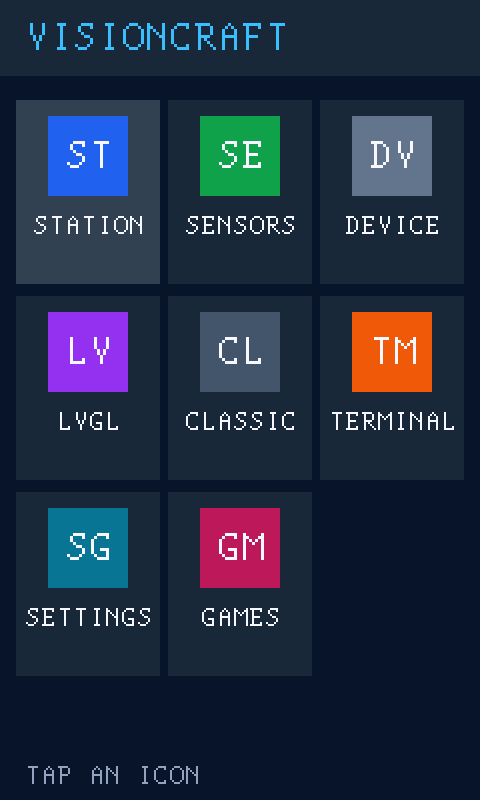
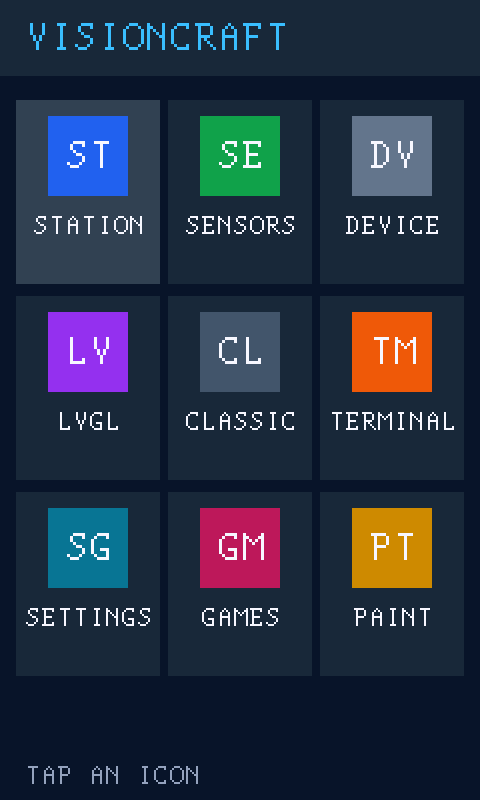
firmware: paint page with a 576 KB canvas in external SRAM; docs(handbook): 画板
Strokes go to the panel and to a canvas in external SRAM, so the
drawing survives page changes (blitted back on enter, 64.8 ms).
Consecutive touch samples are joined with Bresenham lines; on the
board the user's fast strokes had samples up to 42 px apart.

Changed region(s): [[0.7188, 0.625, 0.9062, 0.7812]]

diff --git a/handbook/f407/gui/Paint.qml b/handbook/f407/gui/Paint.qml
@@ -1,0 +1,57 @@
+import QtQuick
+import VisionCraft
+
+Section {
+    title: qsTr("画板：外部 SRAM 里的画布")
+    lead: qsTr("手指或鼠标在屏上画。画面除了直接写进屏，还同时写进外部 SRAM 里的一块 576 KB 的画布：离开这一页再回来，从画布整块写回去，画还在。触摸每 20 ms 才读一次，快速划动时相邻两个点能隔 40 多像素，用直线连起来笔画才连续。")
+
+    Why {
+        text: qsTr("画面在屏幕控制器的显存里，单片机没有副本（见「重画的代价」）。只往屏上画的话，切到别的页面再回来，画就没了。"
+                 + "整屏的副本要 480 × 600 × 2 字节 ≈ 576 KB，片内 RAM 只有 192 KB；外部 SRAM 有 1 MB，缩略图只用了 37.5 KB。这也是「外部 SRAM」一节最后说的用处：放片内放不下的大缓冲。")
+    }
+
+    CodeRef { file: "firmware/station/App/page_paint.c"; region: "canvas" }
+    CodeRef { file: "firmware/station/App/page_paint.c"; region: "brush" }
+
+    KeyPoints {
+        label: qsTr("画一笔")
+        points: [
+            qsTr("笔刷是一个方块：印一下就是在屏上 lcd_fill 一块，同时把画布数组里同样的位置写成这个颜色。"),
+            qsTr("两个采样点之间用 Bresenham 走一遍，每走几步印一下笔刷——和传感器曲线用的是同一个画线算法，只是线有了粗细。"),
+            qsTr("进入这一页时，把画布一行一行用 lcd_draw_rgb565 写回屏上。外部 SRAM 上电时是随机内容，第一次进来先铺一张白纸。"),
+            qsTr("鼠标光标是软件画的（见「指针事件」）：笔刷印到光标所在位置时，lcd.c 的钩子先把光标收起来，画完再画回去，不会互相擦掉。")
+        ]
+    }
+
+    CodeRef { file: "firmware/station/App/page_paint.c"; region: "pointer" }
+
+    Figure {
+        files: ["handbook/f407/gui/figures/gui-paint.png"]
+        captions: [qsTr("模拟器里画的两笔：上面红色那一笔只有 8 个采样点，相邻隔 60 多像素；下面蓝色是密集的点")]
+    }
+
+    CodeRef { file: "handbook/f407/gui/paint-test.txt"; from: "==== 2"; to: "最远隔"; caption: qsTr("板子上：调试器划一笔、离开再回来；看屏的人画了 32 笔") }
+
+    KeyPoints {
+        label: qsTr("读结果")
+        points: [
+            qsTr("调试器注入的快速一笔，相邻采样点隔 60 像素，两点之间的 (130, 220) 屏上和画布里都是红色 0xD924：中间确实连上了。"),
+            qsTr("回首页再进来，那一点还是红色，是从外部 SRAM 写回来的。进入这一页：第一次 86.6 ms（先铺白纸再写回），之后 64.8 ms（只写回 576 KB）。"),
+            qsTr("看屏的人用手指慢画、快划，用鼠标画，换颜色和粗细，回首页再进来，都正常。他画的 32 笔一共 823 个点，快速划动时相邻两个采样点最远隔 42 像素——按这块屏约 0.11 mm 一个像素，大约是 20 ms 里手移动了 5 mm。不连线的话，快划出来就是一串相隔 42 像素的点。这个数是手指还是鼠标划出来的，统计里没有分开。")
+        ]
+    }
+
+    Pitfall {
+        text: qsTr("第一个颜色是深色墨水，和工具栏背景同色，没有边框时在屏上根本看不见；给每个色块都加了一圈边框。"
+                 + "另外，模拟器里第一次写测试时把「抬起」放在了和最后一个点不同的位置，笔画末尾多出一截——真实的触摸，抬起时用的就是最后一个点（station.c 的 poll_touch），是测试写错了，不是画板的问题。")
+    }
+
+    Try {
+        task: qsTr("想把画存下来、断电不丢，可以存在哪？要多大空间？")
+        answerNote: qsTr("576 KB 放不进 EEPROM（256 字节），板上 16 MB 的 SPI Flash 放得下（见「SPI Flash」），或者插上 SD 卡用 FatFs 存成一个 BMP 文件。直接存原始像素就是 576 KB；画面大部分是白纸，用行程编码压缩会小很多。本题没有实测。")
+    }
+
+    InSystem {
+        text: qsTr("首页右下角的 PAINT。画布在外部 SRAM 的 0x6800_9600 起（链接脚本的 .extsram 段，紧跟在缩略图后面），终端的 sram 自检测的是最后 64 KB，不会碰到它。")
+    }
+}

diff --git a/handbook/f407/display/TouchTerminal.qml b/handbook/f407/display/TouchTerminal.qml
@@ -48,7 +48,7 @@ Section {
     }
 
     Pitfall {
-        text: qsTr("触摸的读取频率决定了手感。这里每 20 ms 读一次（I2C 读写本身按位时序估算不到 1 ms，没有实测），对点按足够了；但如果要画手写轨迹，20 ms 一个点在快速划动时会连成折线。"
+        text: qsTr("触摸的读取频率决定了手感。这里每 20 ms 读一次（I2C 读写本身按位时序估算不到 1 ms，没有实测），对点按足够了；但如果要画手写轨迹，20 ms 一个点在快速划动时会连成折线。后来做画板时实测：快速划动时相邻两个采样点最远隔 42 像素（见「画板：外部 SRAM 里的画布」），画板用直线把相邻点连起来，笔画就是连续的。"
                  + "更好的做法是用 INT 脚：芯片有新数据时拉一下 INT，用外部中断通知任务去读，而不是定时轮询。本实验没有用 INT。")
     }
 

diff --git a/handbook/Index.qml b/handbook/Index.qml
@@ -248,6 +248,7 @@ HandbookIndex {
             Entry { title: qsTr("只保留当前页：LVGL 页面的建与删"); file: "handbook/f407/gui/LazyPages.qml" }
             Entry { title: qsTr("设置页：EEPROM 里的设置与闲置调暗"); file: "handbook/f407/gui/Settings.qml" }
             Entry { title: qsTr("小游戏：格子、节拍与只重画变了的格子"); file: "handbook/f407/gui/Games.qml" }
+            Entry { title: qsTr("画板：外部 SRAM 里的画布"); file: "handbook/f407/gui/Paint.qml" }
         }
         Chapter {
             title: qsTr("存储")

diff --git a/firmware/station/App/page_paint.c b/firmware/station/App/page_paint.c
@@ -1,0 +1,157 @@
+/* 画板：手指或鼠标在屏上画。画布存在外部 SRAM（480×600×2 ≈ 576 KB），离开再回来画还在。
+ * 触摸每 20 ms 才读一次，相邻两个点用直线连起来，笔画才是连续的。见手册「画板：外部 SRAM 里的画布」。 */
+#include "pages.h"
+
+#include "lcd.h"
+
+#include <string.h>
+
+#define CANVAS_Y  (GUI_BAR_H + 8)
+#define CANVAS_H  600
+#define TOOLS_Y   (CANVAS_Y + CANVAS_H + 10)
+
+#define C_PAPER   RGB565(248, 250, 252)
+#define C_BG      RGB565(15, 23, 42)
+
+#if defined(__arm__)
+#define EXTSRAM __attribute__((section(".extsram")))
+#else
+#define EXTSRAM
+#endif
+
+// [region canvas]
+/* 画布：屏上画的每一笔同时写进这里。屏幕控制器的显存只有一份、离开这一页就被别的页面盖掉，
+ * 回来时从这里整块写回去。片内放不下（576 KB），放在外部 SRAM */
+static uint16_t s_canvas[CANVAS_H][LCD_W] EXTSRAM;
+static int s_canvasReady;                      /* 外部 SRAM 上电是随机内容：第一次进来先铺满白纸 */
+// [endregion]
+
+volatile uint32_t g_paint_strokes, g_paint_points;   /* 画了几笔、一共收到多少个点 */
+volatile uint32_t g_paint_max_gap;             /* 一笔之内相邻两个点最远隔了多少像素（量触摸采样的稀疏程度） */
+
+static const uint16_t kColors[6] = {
+    RGB565(15, 23, 42), RGB565(220, 38, 38), RGB565(234, 88, 12), RGB565(22, 163, 74), RGB565(37, 99, 235), C_PAPER,
+};
+static const uint8_t kSizes[3] = {3, 8, 16};
+static int s_color, s_size = 1;
+
+// [region brush]
+/* 一个方形笔刷印在 (x, y)：屏上画一块，画布上也写一块。裁到画布范围内 */
+static void stamp(int x, int y)
+{
+    const int s = kSizes[s_size], h = s / 2;
+    int x0 = x - h, y0 = y - h, x1 = x0 + s, y1 = y0 + s;
+    if (x0 < 0) x0 = 0;
+    if (y0 < CANVAS_Y) y0 = CANVAS_Y;
+    if (x1 > LCD_W) x1 = LCD_W;
+    if (y1 > CANVAS_Y + CANVAS_H) y1 = CANVAS_Y + CANVAS_H;
+    if (x0 >= x1 || y0 >= y1) return;
+    const uint16_t c = kColors[s_color];
+    lcd_fill((uint16_t)x0, (uint16_t)y0, (uint16_t)(x1 - x0), (uint16_t)(y1 - y0), c);
+    for (int yy = y0; yy < y1; ++yy)
+        for (int xx = x0; xx < x1; ++xx)
+            s_canvas[yy - CANVAS_Y][xx] = c;
+}
+
+/* 两个采样点之间用 Bresenham 走一遍，每一步都印一下笔刷：中间没有采到的地方也连上了 */
+static void stroke(int x0, int y0, int x1, int y1)
+{
+    const int dx = x1 > x0 ? x1 - x0 : x0 - x1, sx = x0 < x1 ? 1 : -1;
+    const int dy = y1 > y0 ? y0 - y1 : y1 - y0, sy = y0 < y1 ? 1 : -1;
+    int err = dx + dy;
+    const int step = kSizes[s_size] / 3 + 1;   /* 粗笔刷不用每个像素都印：隔几个像素印一次，看起来一样连续 */
+    int n = 0;
+    for (;;) {
+        if (n++ % step == 0 || (x0 == x1 && y0 == y1))
+            stamp(x0, y0);
+        if (x0 == x1 && y0 == y1) break;
+        const int e2 = 2 * err;
+        if (e2 >= dy) { err += dy; x0 += sx; }
+        if (e2 <= dx) { err += dx; y0 += sy; }
+    }
+}
+// [endregion]
+
+static void blit(void)
+{
+    for (int y = 0; y < CANVAS_H; ++y)
+        lcd_draw_rgb565(0, (uint16_t)(CANVAS_Y + y), LCD_W, 1, s_canvas[y]);
+}
+
+static void clear(void)
+{
+    for (int y = 0; y < CANVAS_H; ++y)
+        for (int x = 0; x < LCD_W; ++x)
+            s_canvas[y][x] = C_PAPER;
+    s_canvasReady = 1;
+}
+
+// [region pointer]
+static int s_drawing, s_lastX, s_lastY;
+
+static void paint_pointer(const gui_event *e)
+{
+    const int inside = e->y >= CANVAS_Y && e->y < CANVAS_Y + CANVAS_H;
+    if (e->type == GUI_DOWN) {
+        s_drawing = inside;
+        if (!inside) return;
+        g_paint_strokes++;
+        g_paint_points++;
+        stamp(e->x, e->y);
+    } else if (s_drawing) {
+        const int gx = e->x > s_lastX ? e->x - s_lastX : s_lastX - e->x;
+        const int gy = e->y > s_lastY ? e->y - s_lastY : s_lastY - e->y;
+        const uint32_t gap = (uint32_t)(gx > gy ? gx : gy);
+        if (gap > g_paint_max_gap) g_paint_max_gap = gap;
+        g_paint_points++;
+        stroke(s_lastX, s_lastY, e->x, e->y);
+        if (e->type == GUI_UP) s_drawing = 0;
+    }
+    s_lastX = e->x;
+    s_lastY = e->y;
+}
+// [endregion]
+
+/* 工具栏：六个颜色块、笔刷粗细、清空 */
+static void draw_swatch(const gui_widget *w)
+{
+    const int i = (int)(intptr_t)w->user;
+    /* 每个色块都有一圈边框（深色墨水和工具栏背景同色，没有边框就看不见了）；选中的那个是亮蓝 */
+    const uint16_t ring = i == s_color ? RGB565(56, 189, 248) : RGB565(71, 85, 105);
+    lcd_fill((uint16_t)w->x, (uint16_t)w->y, (uint16_t)w->w, (uint16_t)w->h, ring);
+    lcd_fill((uint16_t)(w->x + 5), (uint16_t)(w->y + 5), (uint16_t)(w->w - 10), (uint16_t)(w->h - 10), kColors[i]);
+}
+static void pick(gui_widget *w)
+{
+    s_color = (int)(intptr_t)w->user;
+    const gui_page *p = gui_current();         /* 六个色块都要重画：选中的那一圈换了位置 */
+    for (int i = 0; i < 6; ++i) gui_invalidate(&p->widgets[i]);
+}
+static void cycle_size(gui_widget *w)
+{
+    s_size = (s_size + 1) % 3;
+    static const char *const kName[3] = {"S", "M", "L"};
+    w->text = kName[s_size];
+    gui_invalidate(w);
+}
+static void on_clear(gui_widget *w) { (void)w; clear(); blit(); }
+
+#define SW 56
+static gui_widget s_tools[] = {
+    {8 + 0 * 60, TOOLS_Y, SW, SW, "", 0, 0, 0, draw_swatch, pick, (void *)0},
+    {8 + 1 * 60, TOOLS_Y, SW, SW, "", 0, 0, 0, draw_swatch, pick, (void *)1},
+    {8 + 2 * 60, TOOLS_Y, SW, SW, "", 0, 0, 0, draw_swatch, pick, (void *)2},
+    {8 + 3 * 60, TOOLS_Y, SW, SW, "", 0, 0, 0, draw_swatch, pick, (void *)3},
+    {8 + 4 * 60, TOOLS_Y, SW, SW, "", 0, 0, 0, draw_swatch, pick, (void *)4},
+    {8 + 5 * 60, TOOLS_Y, SW, SW, "", 0, 0, 0, draw_swatch, pick, (void *)5},
+    {368, TOOLS_Y, 48, SW, "M", RGB565(30, 41, 59), 0, 0, gui_draw_button, cycle_size, 0},
+    {420, TOOLS_Y, 56, SW, "X", RGB565(127, 29, 29), 0, 0, gui_draw_button, on_clear, 0},
+};
+
+static void paint_enter(void)
+{
+    if (!s_canvasReady) clear();
+    blit();                                    /* 从外部 SRAM 把画整块写回屏上 */
+}
+
+const gui_page g_page_paint = {"PAINT", s_tools, sizeof(s_tools) / sizeof(s_tools[0]), paint_enter, 0, paint_pointer, 0, 0};

diff --git a/examples/gui_sim/main.cpp b/examples/gui_sim/main.cpp
@@ -4,6 +4,7 @@
 #include <QImage>
 #include <cstdio>
 #include <cstring>
+#include <cmath>
 #include <tuple>
 
 extern "C" {
@@ -20,6 +21,7 @@ extern volatile uint32_t g_lv_flushes, g_lv_flush_px, g_lv_clicks;
 extern volatile int32_t g_lv_slider;
 extern uint8_t g_sim_backlight;
 extern char g_term_inject[64];
+extern volatile uint32_t g_paint_strokes, g_paint_points, g_paint_max_gap;
 
 extern volatile uint32_t g_term_inject_seq;
 extern int g_sim_result_fresh, g_sim_image_fresh, g_sim_image_done;
@@ -217,6 +219,25 @@ int main(int argc, char *argv[])
     step("消行");                                                  save("gui-tetris-clear");
     tap(40, 38); tap(40, 38);
     step("返回两次，回到首页");
+
+    std::printf("\n==== 12. 画板 ====\n");
+    tap(392, 580);
+    step("点 PAINT（第一次进来：铺一张白纸）");
+    tap(8 + 60 + 28, 76 + 8 + 610 + 28);                              // 选红色
+    ev(GUI_DOWN, 40, 160);                                           // 快速划一笔：每隔 20 ms 才采到一个点，相邻点隔 60 多像素
+    for (int i = 1; i <= 6; ++i) { run(20); ev(GUI_MOVE, 40 + i * 60, 160 + i * 40); }
+    run(20); ev(GUI_UP, 400, 400); run(100);
+    tap(8 + 4 * 60 + 28, 76 + 8 + 610 + 28);                         // 选蓝色
+    ev(GUI_DOWN, 60, 600);                                           // 慢慢画一段波浪：点很密
+    for (int i = 1; i <= 80; ++i) { run(20); ev(GUI_MOVE, 60 + i * 4, 600 - int(60 * std::sin(i / 8.0))); }
+    run(20); ev(GUI_UP, 60 + 80 * 4, 600 - int(60 * std::sin(80 / 8.0))); run(100);   // 抬起在最后一个点（真实触摸也是这样）
+    std::printf("    画了 %u 笔、%u 个点，相邻两点最远隔 %u 像素\n", (unsigned)g_paint_strokes, (unsigned)g_paint_points, (unsigned)g_paint_max_gap);
+    std::printf("    快的那一笔中间（两个采样点之间）(130, 220) 的像素 0x%04x（红色是 0x%04x）\n", g_fb[220][130], 0xd924);
+    step("画两笔");                                                save("gui-paint");
+    tap(40, 38); tap(392, 580);
+    std::printf("    离开再回来：(130, 220) 的像素 0x%04x\n", g_fb[220][130]);
+    step("离开再回来，画还在");
+    tap(40, 38);
 
     std::printf("\n共重画控件 %lu 次\n", (unsigned long)g_gui_redraws);
     return 0;

diff --git a/firmware/station/App/page_home.c b/firmware/station/App/page_home.c
@@ -13,7 +13,7 @@ static void open_page(gui_widget *w) { gui_open((const gui_page *)w->user); }
 
 /* 图标上的两个字母放在 user 里不方便（user 指向要打开的页面），所以用 text 存名字、color 存颜色，
  * 两个字母由下面这张表给出，绘制函数按控件序号取 */
-static const char *const kGlyph[] = {"ST", "SE", "DV", "LV", "CL", "TM", "SG", "GM"};
+static const char *const kGlyph[] = {"ST", "SE", "DV", "LV", "CL", "TM", "SG", "GM", "PT"};
 
 static void draw_tile(const gui_widget *w);
 static gui_widget s_tiles[] = {
@@ -25,6 +25,7 @@ static gui_widget s_tiles[] = {
     {COL(2), ROW(1), TILE_W, TILE_H, "TERMINAL", RGB565(234, 88, 12), 0, 0, draw_tile, open_page, (void *)&g_page_term},
     {COL(0), ROW(2), TILE_W, TILE_H, "SETTINGS", RGB565(14, 116, 144), 0, 0, draw_tile, open_page, (void *)&g_page_settings},
     {COL(1), ROW(2), TILE_W, TILE_H, "GAMES", RGB565(190, 24, 93), 0, 0, draw_tile, open_page, (void *)&g_page_games},
+    {COL(2), ROW(2), TILE_W, TILE_H, "PAINT", RGB565(202, 138, 4), 0, 0, draw_tile, open_page, (void *)&g_page_paint},
 };
 // [endregion]
 

diff --git a/firmware/station/扩充方案.md b/firmware/station/扩充方案.md
@@ -57,6 +57,8 @@
 
 ### 5. 画板页（外部 SRAM 和触摸采样的练习）
 
+**已完成（2026-10-09）**：page_paint.c，画布 576 KB 在外部 SRAM；实测快划相邻采样点最远 42 像素。同时完成：设置页（EEPROM 32 起）、扫雷 / 贪吃蛇 / 俄罗斯方块（GAMES）、页面只保留当前页（LVGL 内存池峰值 16.8 KB）。
+
 - LVGL `lv_canvas`，缓冲 480×724×2 ≈ 680 KB 放外部 SRAM（还剩约 980 KB）。
 - 实测「20 ms 采样一次，快速划动会连成折线」（「触屏终端与软键盘」踩坑里只是推测）；可以再试 GT917S 的 INT 脚中断。
 
